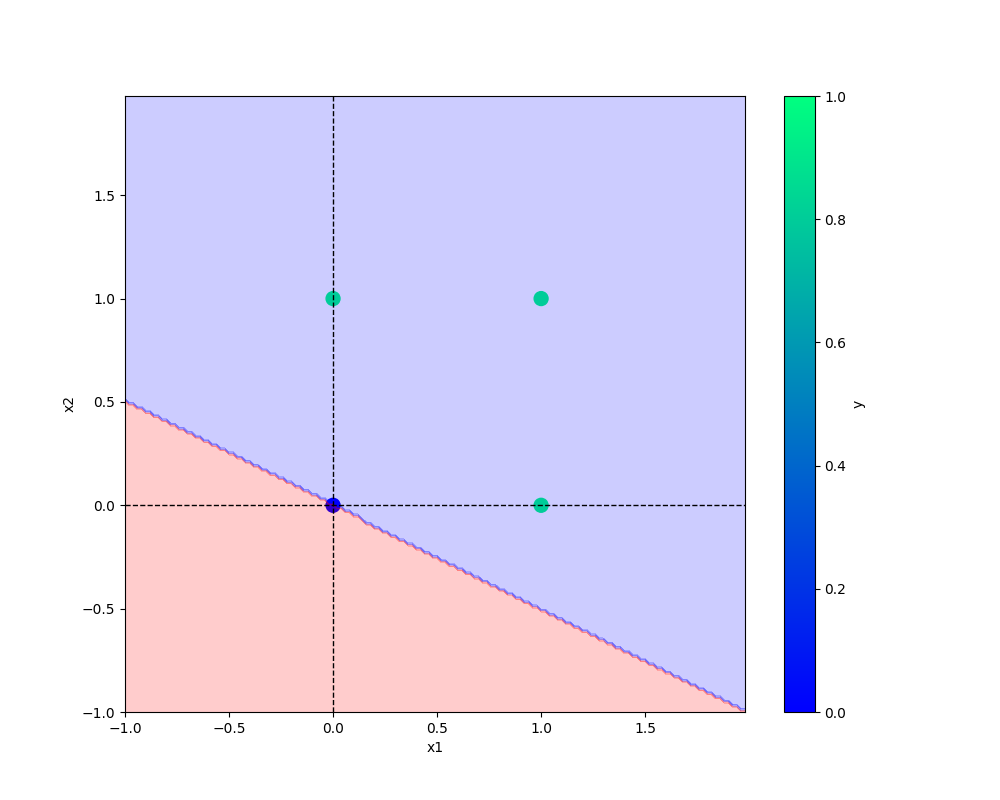
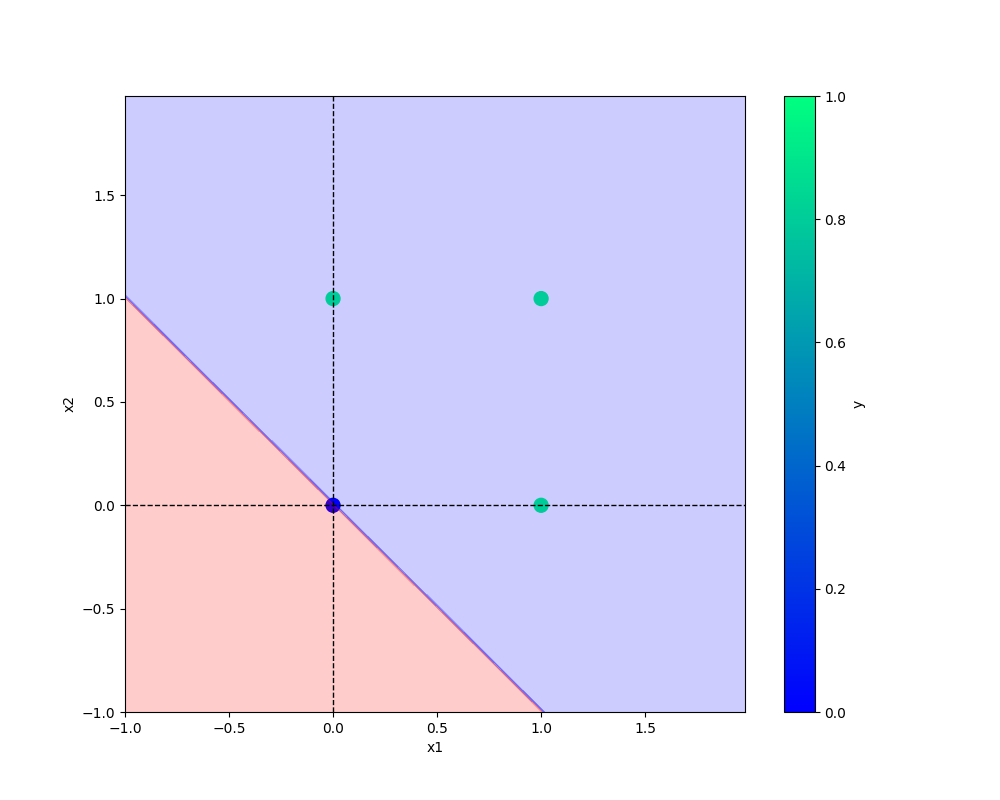
Completed end-to-end

Changed region(s): [[0.341, 0.625, 0.744, 0.9062], [0.124, 0.375, 0.341, 0.625]]

diff --git a/README.md b/README.md
@@ -1,2 +1,16 @@
 # Neuron
-Building perceptron from scratch 
+Building perceptron from scratch, building models for AND, OR gates. All code is organized and setup all logging.
+
+## Python package
+This code has been converted to python PyPI package. Refer
+[Neuron PyPI](https://pypi.org/project/Neuron-pypi-SivaNagendra-sn/0.0.1/)
+
+Anyone can download and train a perceptron model with own datasets.
+
+
+## Result Images
+### AND GATE
+![output Img](plots/and.png)
+
+### OR GATE
+![output Img](plots/or.png)
